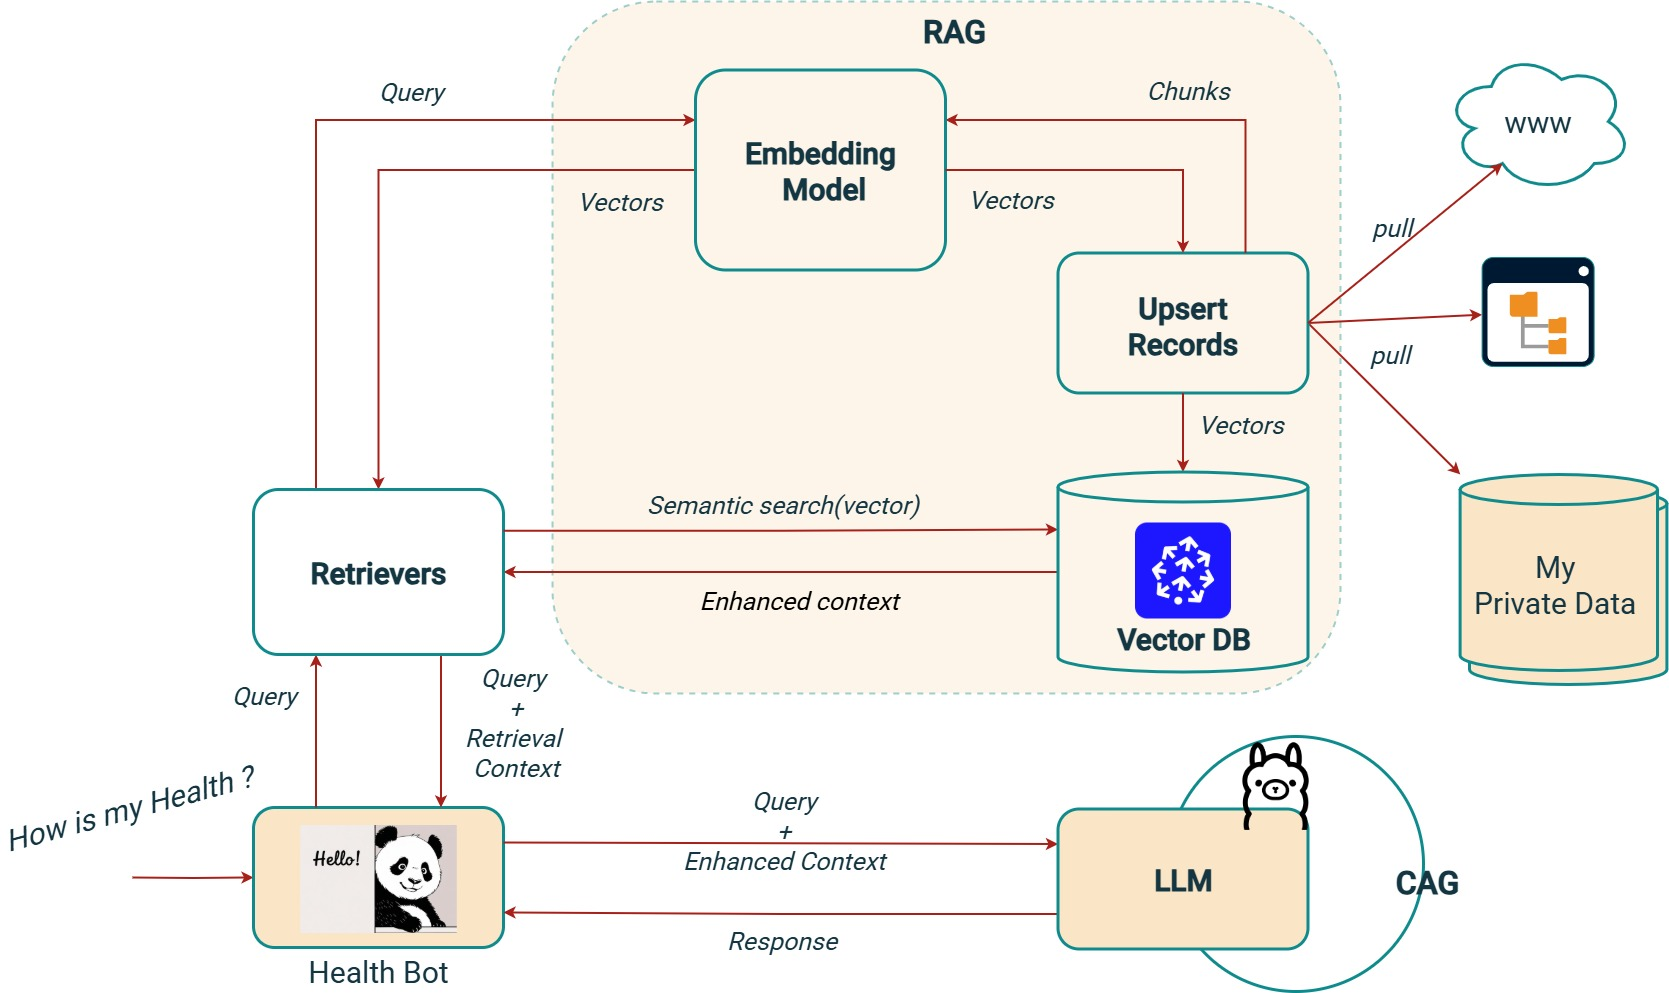
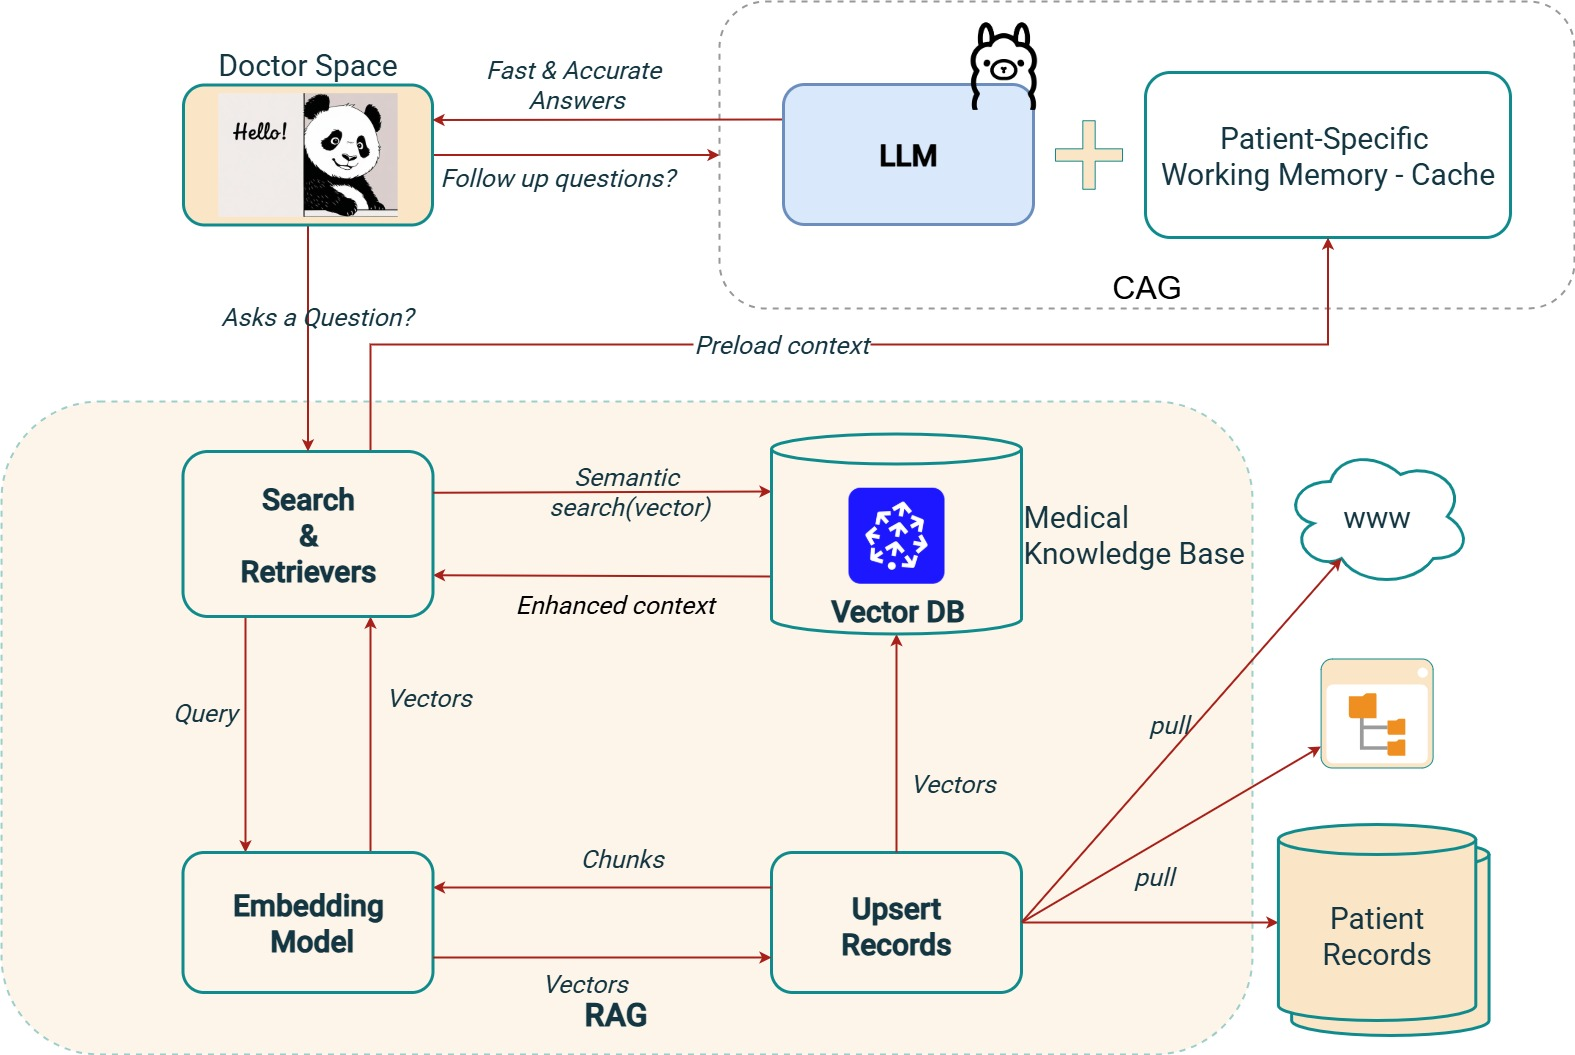
updated the diagram &  Scenario

diff --git a/README.md b/README.md
@@ -290,4 +290,20 @@ Cache-Augmented Generation (CAG) is emerging as a compelling alternative to Retr
 - **Quantitative Analysis**: We conducted extensive experiments showing scenarios where long-context LLMs outperform traditional RAG systems, especially with manageable knowledge bases.
 - **Practical Insights**: This work provided actionable insights into optimizing knowledge-intensive workflows, demonstrating the viability of retrieval-free methods for specific applications. Our CAG framework is released publicly.1
 
-(this is for next time )
+
+# Scenario: Will build a clinical decision support system for hospitals.
+Idea is that doctors need to query patient records and treatment guides and drug interactions and the responses need to be really comprehensive and of course, very accurate because they're going to be used by doctors during patient consultations.
+
+- Because in this case, the system could first use RAG to retrieve the most relevant subset from the massive knowledge base.
+So pulling in specific sections of a particular patient's history and some research papers that are based on the doctor's query.
+- And then instead of simply passing those retrieved chunks to the LLM, it could load all that retrieved content into a long context model that uses CAG, creating a temporary working memory, if you like, for the specific patient case.
+
+So it's really a hybrid approach.
+
+RAG's ability to efficiently search enormous knowledge bases, and then CAG's capability for providing the full breadth of medical knowledge when needed for those follow-up questions without the system repeatedly querying the database.
+1. Initial Query: Doctor asks a medical question.
+2. RAG Retrieval: Searches patient records, research papers, and drug data → retrieves relevant chunks.
+3. CAG Preload: The retrieved content is preloaded into the LLM’s KV cache (internal memory in the Transformer’s attention mechanism).
+4. LLM Response: The model uses both the query and the cached context to generate an answer.
+5. Follow-up Q&A: Follow-up questions are answered instantly using the cached context, without repeating retrieval.
+
